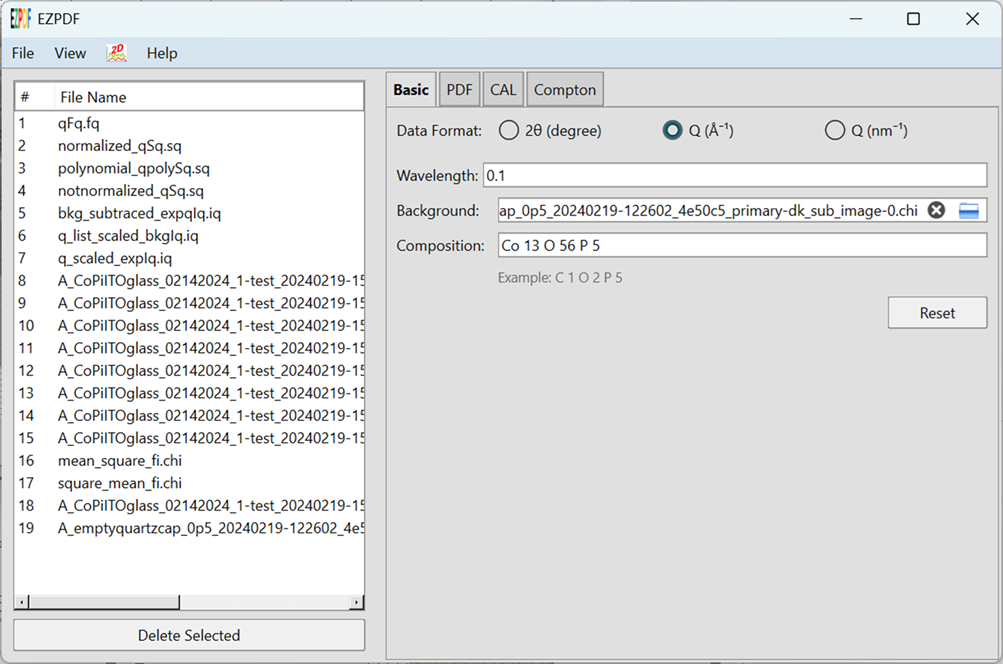
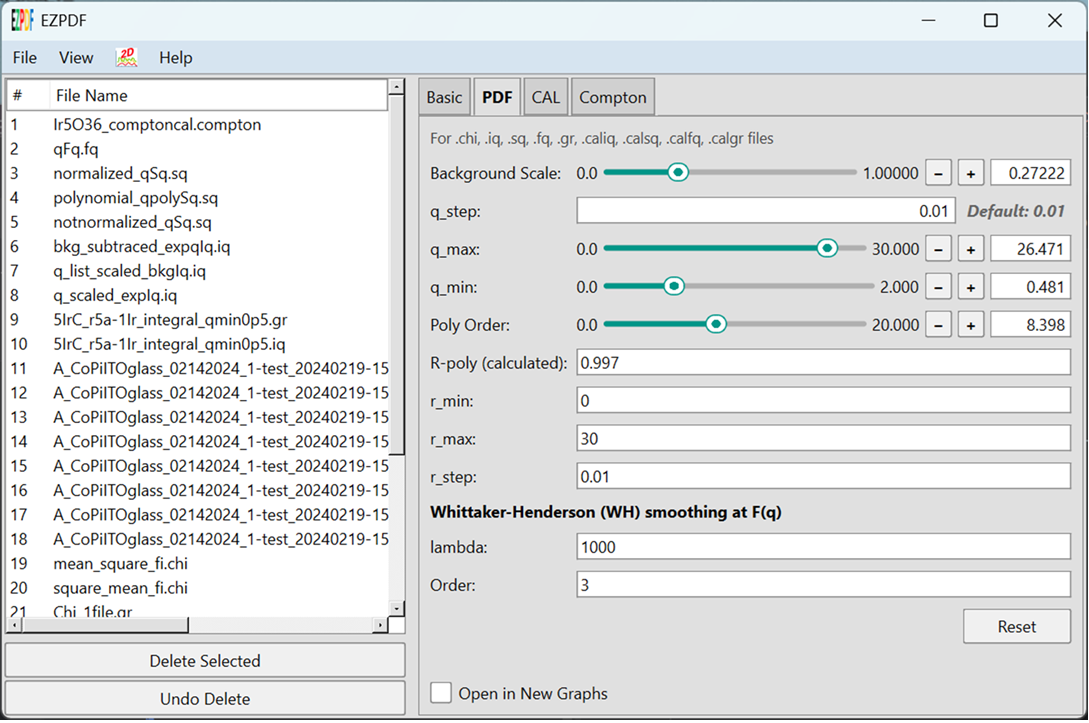
tutorials with old stuffs

diff --git a/docs/tutorial.md b/docs/tutorial.md
@@ -325,7 +325,7 @@ GUI of EZPDF
 The picture shows GUI of EZPDF to process experimental I(q) data to obtain S(q), F(q), G(r). the loaded fil, necessary parameters, smooth function are shown. Also, “Open in New Graphs” allows new graph when open each file.
 Load file, folder, saved project file which as parameters and file path.
 View tab show “Dark Mode”.
-Select several files and delete all.
+Select several files and delete all. A file drag-and-drop interface and a deleted file recovery function have been added. 
 
 ![EZPDF_GUI.png](EZPDF_GUI.png)
 EZPDF panel
